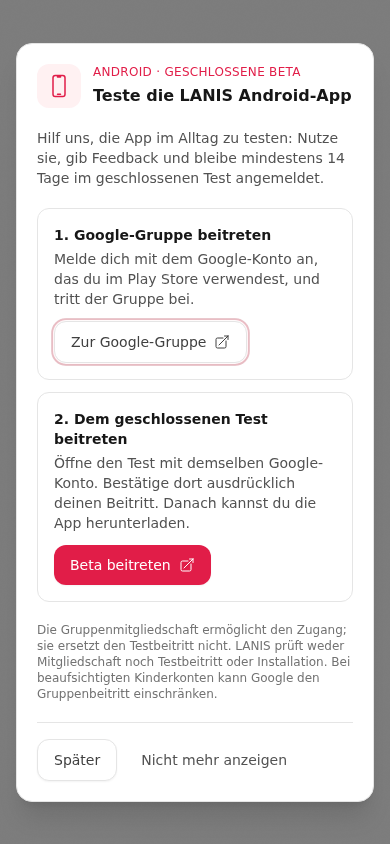
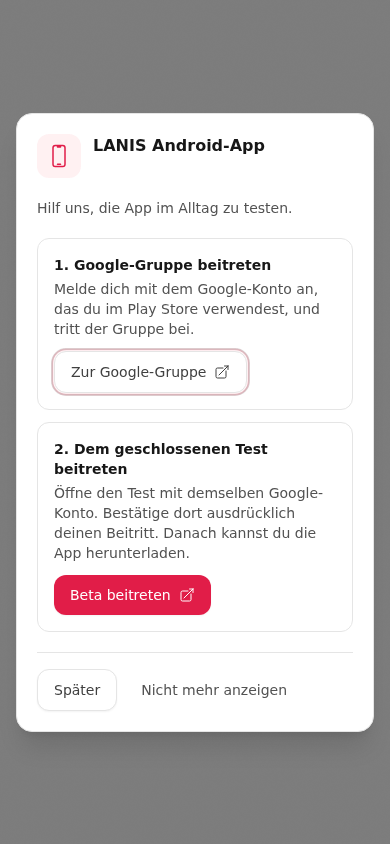
Simplify Android beta invitation and remove Settings promotion

Changed region(s): [[0.0308, 0.0308, 0.9846, 0.8318], [0.0308, 0.8626, 0.9846, 0.955]]

diff --git a/src/components/beta/AndroidBeta.tsx b/src/components/beta/AndroidBeta.tsx
@@ -7,12 +7,11 @@ import { betaPrompt, isAndroidBrowser } from '../../utils/androidBeta';
 const GROUP_URL = 'https://groups.google.com/g/lanis-beta/about';
 const JOIN_URL = 'https://play.google.com/apps/testing/de.joancode.lanis';
 
-export default function AndroidBeta({ settings = false }: { settings?: boolean }) {
+export default function AndroidBeta() {
   const { token } = useAuth();
   const [state, setState] = useState<AndroidBetaState | null>(null);
   const [error, setError] = useState('');
   const [busy, setBusy] = useState(false);
-  const [loading, setLoading] = useState(true);
   const [open, setOpen] = useState(false);
   const dialog = useRef<HTMLDialogElement>(null);
   const generation = useRef(0);
@@ -29,7 +28,7 @@ export default function AndroidBeta({ settings = false }: { settings?: boolean }
       if (version === generation.current) { setState(next); setError(''); }
     } catch {
       if (version === generation.current) { setState(null); setError('Die Beta-Einstellungen konnten nicht geladen werden.'); }
-    } finally { if (version === generation.current) setLoading(false); }
+    }
   }, [token]);
 
   useEffect(() => {
@@ -41,7 +40,7 @@ export default function AndroidBeta({ settings = false }: { settings?: boolean }
   }, [load, open]);
 
   useEffect(() => {
-    if (settings || !eligible || !state?.available) { setOpen(false); return; }
+    if (!eligible || !state?.available) { setOpen(false); return; }
     if (open || locallyClosed.current || !betaPrompt(state)) return;
     const timer = window.setInterval(() => {
       const pwa = document.querySelector('pwa-install') as (HTMLElement & { isDialogHidden?: boolean }) | null;
@@ -49,7 +48,7 @@ export default function AndroidBeta({ settings = false }: { settings?: boolean }
       setOpen(true);
     }, 1500);
     return () => window.clearInterval(timer);
-  }, [settings, eligible, state, open]);
+  }, [eligible, state, open]);
 
   useEffect(() => {
     const node = dialog.current;
@@ -77,11 +76,9 @@ export default function AndroidBeta({ settings = false }: { settings?: boolean }
   const content = <div className="space-y-5">
     <div className="flex items-start gap-3">
       <span className="rounded-xl bg-primary-50 p-2.5 text-primary-600 dark:bg-primary-950 dark:text-primary-400"><DevicePhoneMobileIcon className="h-6 w-6" /></span>
-      <div><p className="text-xs font-medium uppercase tracking-wide text-primary-600 dark:text-primary-400">Android · Geschlossene Beta</p><h2 id={settings ? 'beta-settings-title' : 'beta-dialog-title'} className="item-title mt-1">Teste die LANIS Android-App</h2></div>
+      <h2 id="beta-dialog-title" className="item-title self-center">LANIS Android-App</h2>
     </div>
-    <p className="text-sm text-surface-600 dark:text-surface-400">Hilf uns, die App im Alltag zu testen: Nutze sie, gib Feedback und bleibe mindestens 14 Tage im geschlossenen Test angemeldet.</p>
-    {loading && <p role="status" className="text-sm">Beta-Einstellungen werden geladen…</p>}
-    {!state?.available && !loading && <p className="rounded-xl bg-surface-100 p-3 text-sm dark:bg-surface-800">{state ? 'Der geschlossene Test ist noch nicht freigegeben. Die Links bleiben hier verfügbar. Der Download ist erst möglich, wenn die Veröffentlichung in Google Play abgeschlossen ist.' : 'Die Verfügbarkeit des geschlossenen Tests konnte nicht geprüft werden. Die Links bleiben hier verfügbar; der Download setzt eine veröffentlichte Testversion voraus.'}</p>}
+    <p className="text-sm text-surface-600 dark:text-surface-400">Hilf uns, die App im Alltag zu testen.</p>
     <ol className="space-y-3">
       <li className="rounded-xl border border-surface-200 p-4 dark:border-surface-700">
         <h3 className="text-sm font-semibold">1. Google-Gruppe beitreten</h3>
@@ -94,10 +91,8 @@ export default function AndroidBeta({ settings = false }: { settings?: boolean }
         <a className={`btn ${state?.available ? 'btn-primary' : 'btn-secondary'} mt-3 inline-flex items-center gap-2`} href={state?.join_url || JOIN_URL} target="_blank" rel="noopener noreferrer">Beta beitreten<ArrowTopRightOnSquareIcon className="h-4 w-4" aria-hidden="true" /></a>
       </li>
     </ol>
-    <p className="text-xs text-surface-500 dark:text-surface-400">Die Gruppenmitgliedschaft ermöglicht den Zugang; sie ersetzt den Testbeitritt nicht. LANIS prüft weder Mitgliedschaft noch Testbeitritt oder Installation. Bei beaufsichtigten Kinderkonten kann Google den Gruppenbeitritt einschränken.</p>
-    {error && <div role="alert" className="space-y-2 text-sm text-red-600 dark:text-red-400"><p>{error} {!state && <button className="ml-1 underline" onClick={() => void load()}>Erneut versuchen</button>}</p>{!settings && <button type="button" className="btn btn-secondary" onClick={closeLocally}>Ohne Speichern schließen</button>}</div>}
-    {!settings && <div className="flex flex-wrap gap-2 border-t border-surface-200 pt-4 dark:border-surface-700"><button className="btn btn-secondary" disabled={busy} onClick={() => void dismiss('later')}>Später</button><button className="btn btn-ghost" disabled={busy} onClick={() => void dismiss('dismiss')}>Nicht mehr anzeigen</button></div>}
+    {error && <div role="alert" className="space-y-2 text-sm text-red-600 dark:text-red-400"><p>{error}</p><button type="button" className="btn btn-secondary" onClick={closeLocally}>Ohne Speichern schließen</button></div>}
+    <div className="flex flex-wrap gap-2 border-t border-surface-200 pt-4 dark:border-surface-700"><button className="btn btn-secondary" disabled={busy} onClick={() => void dismiss('later')}>Später</button><button className="btn btn-ghost" disabled={busy} onClick={() => void dismiss('dismiss')}>Nicht mehr anzeigen</button></div>
   </div>;
-  if (settings) return <section aria-labelledby="beta-settings-title" className="card p-4 sm:p-6">{content}</section>;
   return open ? <dialog ref={dialog} aria-labelledby="beta-dialog-title" onCancel={event => { event.preventDefault(); if (error) closeLocally(); else void dismiss('later'); }} className="m-auto max-h-[90dvh] w-[calc(100%-2rem)] max-w-md overflow-y-auto rounded-2xl border border-surface-200 bg-white p-5 text-surface-900 shadow-xl backdrop:bg-black/50 dark:border-surface-700 dark:bg-surface-900 dark:text-surface-100 sm:p-6">{content}</dialog> : null;
 }

diff --git a/src/components/settings/Settings.tsx b/src/components/settings/Settings.tsx
@@ -51,7 +51,6 @@ import { usePwaInstall } from '../../contexts/PwaInstallContext';
 import TimetableSettings from './TimetableSettings';
 import VertretungsplanSettings from './VertretungsplanSettings';
 import AgentsSettings from './AgentsSettings';
-import AndroidBeta from '../beta/AndroidBeta';
 import DashboardSettings from './DashboardSettings';
 import SettingsSwitch from './SettingsSwitch';
 import {
@@ -1002,7 +1001,6 @@ const Settings: React.FC = () => {
         <p className="page-subtitle">{sectionMeta[section].subtitle}</p>
       </div>
 
-      {section === 'home' && basePath !== '/demo' && <div className="mb-6"><AndroidBeta settings /></div>}
       {section === 'home' && <SettingsIndex basePath={basePath} sections={visibleSettingsSections} />}
 
       {syncError && section !== 'notifications' && section !== 'home' && (

diff --git a/docs/screenshots/android-beta/README.md b/docs/screenshots/android-beta/README.md
@@ -1,57 +1,31 @@
 # Android beta screenshot gallery
 
-Captured from application source commit `512f50a1e634a2b0820c4b584c2c1d3a78eb37f6`.
-The actual AndroidBeta and PrivacyPolicy components use the production stylesheet,
-with deterministic authentication/API fixtures. These are component captures,
-not signed-in production sessions or evidence that the closed release is live.
-No Google membership, Play enrollment, account data or production settings were changed.
+Current dashboard-only UI after the requested copy cleanup. Actual AndroidBeta
+and PrivacyPolicy components use the production stylesheet with deterministic
+authentication/API fixtures. These are component captures, not signed-in production
+sessions or proof that the closed release is live. No real account or Google
+membership/enrollment data was changed.
 
-Mobile captures use 390 × 844 CSS pixels in light mode. Desktop captures use
-1440 × 1000 in dark mode (privacy retains its existing light styling).
-Settings captures include the full component height; privacy images crop to the
-changed disclosure. The mobile save-error dialog is scrolled to its error and
-local close action, showing the real constrained viewport behavior.
-Keyboard focus outlines are visible where Chromium placed focus on dialog open.
+Mobile: 390 × 844, light. Desktop: 1440 × 1000, dark (privacy retains its light
+styling and is cropped to the relevant disclosure). The error dialog is scrolled
+to its error/local-close action when needed. Keyboard focus outlines are visible.
+The beta block was removed from Settings, so its old screenshots were removed.
 
 ## Dashboard invitation
 
-| Mobile / light | Desktop / dark |
+| Mobile | Desktop |
 | --- | --- |
 | ![Dashboard invitation, mobile](invitation-mobile.png) | ![Dashboard invitation, desktop](invitation-desktop.png) |
 
 ## Save failure and local close fallback
 
-| Mobile / light | Desktop / dark |
+| Mobile | Desktop |
 | --- | --- |
 | ![Save failure and local close fallback, mobile](invitation-save-error-mobile.png) | ![Save failure and local close fallback, desktop](invitation-save-error-desktop.png) |
 
-## Settings: recruitment enabled
+## Privacy disclosure (unchanged by this cleanup)
 
-| Mobile / light | Desktop / dark |
+| Mobile | Desktop |
 | --- | --- |
-| ![Settings: recruitment enabled, mobile](settings-enabled-mobile.png) | ![Settings: recruitment enabled, desktop](settings-enabled-desktop.png) |
-
-## Settings: recruitment disabled
-
-| Mobile / light | Desktop / dark |
-| --- | --- |
-| ![Settings: recruitment disabled, mobile](settings-disabled-mobile.png) | ![Settings: recruitment disabled, desktop](settings-disabled-desktop.png) |
-
-## Settings: loading preferences
-
-| Mobile / light | Desktop / dark |
-| --- | --- |
-| ![Settings: loading preferences, mobile](settings-loading-mobile.png) | ![Settings: loading preferences, desktop](settings-loading-desktop.png) |
-
-## Settings: failed preference load and retry
-
-| Mobile / light | Desktop / dark |
-| --- | --- |
-| ![Settings: failed preference load and retry, mobile](settings-offline-mobile.png) | ![Settings: failed preference load and retry, desktop](settings-offline-desktop.png) |
-
-## Updated privacy disclosure (changed section)
-
-| Mobile / light | Desktop / dark |
-| --- | --- |
-| ![Updated privacy disclosure (changed section), mobile](privacy-mobile.png) | ![Updated privacy disclosure (changed section), desktop](privacy-desktop.png) |
+| ![Privacy disclosure (unchanged by this cleanup), mobile](privacy-mobile.png) | ![Privacy disclosure (unchanged by this cleanup), desktop](privacy-desktop.png) |
 

diff --git a/docs/ANDROID_BETA.md b/docs/ANDROID_BETA.md
@@ -2,7 +2,7 @@
 
 Depends on [lanis_api #98](https://github.com/joan-code6/lanis_api/pull/98).
 Rollout: backend then UI; admin #15 is superseded, with no queue or export dependency.
-No deployment is performed by these PRs. Recruitment defaults to disabled until
+Only the PR-specific frontend preview deployment is authorized. Recruitment defaults to disabled until
 the CLOSED release is approved and actual opt-in/download access is verified.
 
 Backend configuration:
@@ -13,8 +13,9 @@ Backend configuration:
 After dashboard load, eligible Android browsers receive an invitation when due,
 excluding Capacitor and waiting for onboarding/other dialogs. Showing it starts a
 seven-day account-backed cooldown, as does Später. Nicht mehr anzeigen suppresses
-future invitations. Settings always keeps both links, including when recruitment
-is disabled or preference loading fails, with clear release-availability wording.
+future invitations. The beta UI appears only in the dashboard invitation; it is
+not shown in Settings. Disabled recruitment or a failed preference load shows no
+invitation. The dialog keeps the two joining steps and brief introductory copy.
 
 Users sign into Google with their Play Store account, join the group, then
 explicitly join the CLOSED test with the same account before downloading. Some
@@ -31,8 +32,8 @@ describe activation and genuine 12-tester/14-day participation requirements.
 Validation: `npm test`, `npm run test:beta`, `npm run build`, and after building,
 `CHROME_PATH=/path/to/chromium npm run test:beta:browser`. Browser coverage includes
 390px/1440px dark layouts, both URLs, no email field, activation gating, native
-exclusion, cooldown/dismissal, persistence failure/retry, Settings links while
-unavailable/offline and onboarding/modal arbitration. Screenshots go to `/tmp`.
+exclusion, cooldown/dismissal, save-failure local close, preference-load recovery
+and onboarding/modal arbitration. Screenshots go to `/tmp`.
 
-CI-skip markers prevent automatic Cloudflare PR preview deployment under the
-no-deploy instruction. Local checks are recorded in the PR.
+The normal build → Cloudflare PR-preview pipeline is authorized. Production and
+backend deployments remain outside scope. Local checks are recorded in the PR.
